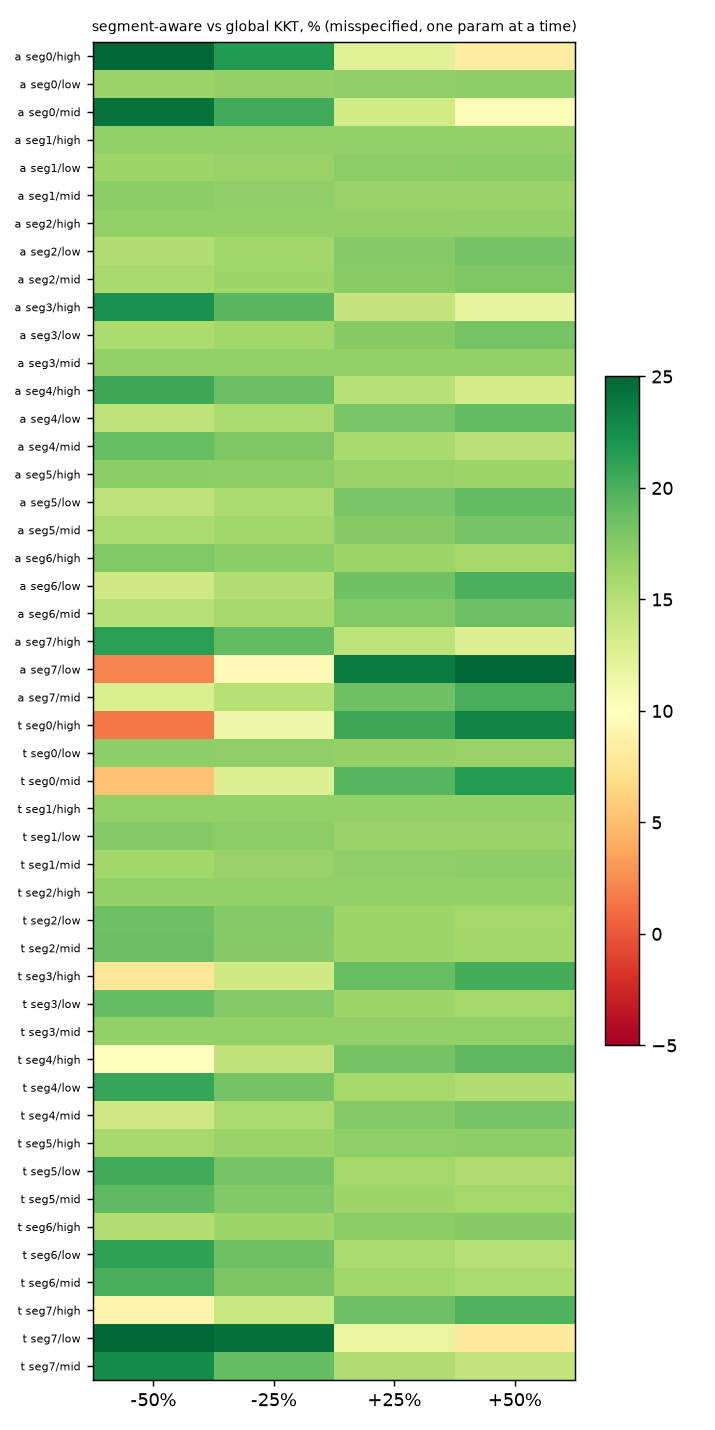
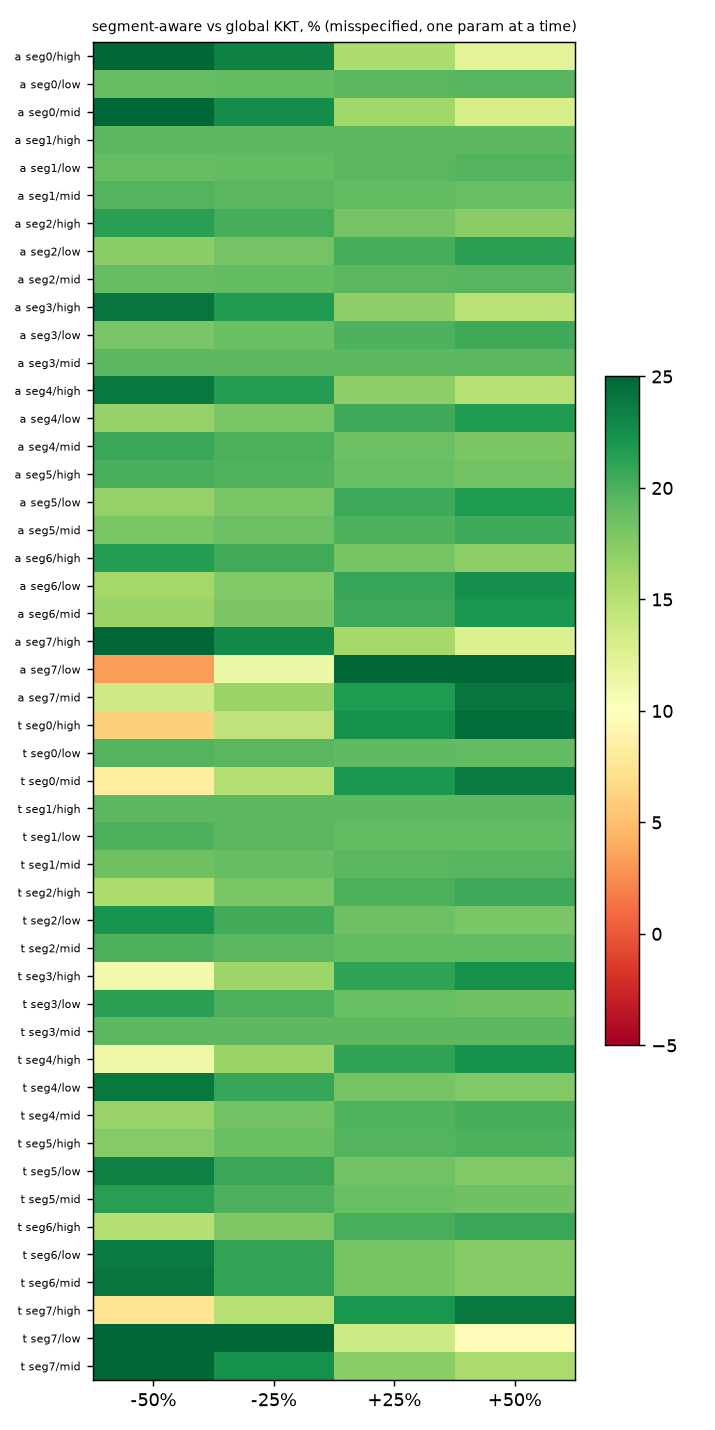
reports: regenerate after out-of-fold scoring (risk, allocation, claims)

diff --git a/reports/allocation.md b/reports/allocation.md
@@ -103,20 +103,20 @@ within 0.5% (`allocation.dual_check_tolerance`).
 
 | strategy              | spend mode   |   spend |   expected saved |   targeted |   saved per spend |   realized saved (labels) |
 |:----------------------|:-------------|--------:|-----------------:|-----------:|------------------:|--------------------------:|
-| segment_aware_kkt     | continuous   | 15000   |         88004.9  |         57 |             5.867 |                  85659    |
-| segment_aware_kkt     | snapped      | 14872.9 |         82422.9  |         83 |             5.542 |                  80962.5  |
-| global_kkt            | continuous   | 15000   |         75330.8  |         49 |             5.022 |                  73606.2  |
-| global_kkt            | snapped      | 14857.9 |         77772.4  |        100 |             5.234 |                  78515    |
-| uniform               | continuous   | 15000   |         17703.6  |       1500 |             1.18  |                  17814.9  |
-| uniform               | snapped      |  7500   |          8874.65 |       1500 |             1.183 |                   8926.38 |
-| top_k_risk            | continuous   | 15000   |         75941.9  |         30 |             5.063 |                  73990    |
-| top_k_risk            | snapped      | 14775.9 |         78113.1  |         83 |             5.287 |                  79282.9  |
-| top_k_revenue_at_risk | continuous   | 15000   |         59801.6  |         30 |             3.987 |                  57840.3  |
-| top_k_revenue_at_risk | snapped      | 14916.7 |         60195.9  |         90 |             4.035 |                  60969.4  |
-| risk_proportional     | continuous   | 15000   |         41647.5  |       1197 |             2.776 |                  40377.3  |
-| risk_proportional     | snapped      | 15000   |         43752.6  |        942 |             2.917 |                  41681.7  |
+| segment_aware_kkt     | continuous   | 15000   |         86158.4  |         61 |             5.744 |                  88159.7  |
+| segment_aware_kkt     | snapped      | 14967.7 |         82201.2  |         79 |             5.492 |                  83946.6  |
+| global_kkt            | continuous   | 15000   |         72239.1  |         66 |             4.816 |                  73489    |
+| global_kkt            | snapped      | 14821.3 |         75837.4  |         89 |             5.117 |                  78524.1  |
+| uniform               | continuous   | 15000   |         17952    |       1500 |             1.197 |                  17814.9  |
+| uniform               | snapped      |  7500   |          8997.53 |       1500 |             1.2   |                   8926.38 |
+| top_k_risk            | continuous   | 15000   |         71986.6  |         30 |             4.799 |                  71924.7  |
+| top_k_risk            | snapped      | 14929.3 |         76561.5  |         84 |             5.128 |                  78571.3  |
+| top_k_revenue_at_risk | continuous   | 15000   |         58514    |         30 |             3.901 |                  61770    |
+| top_k_revenue_at_risk | snapped      | 14816.7 |         60921.6  |         89 |             4.112 |                  65023.6  |
+| risk_proportional     | continuous   | 15000   |         39486.9  |       1332 |             2.632 |                  39779.2  |
+| risk_proportional     | snapped      | 14905   |         39173.4  |       1131 |             2.628 |                  39582.7  |
 
-Segment-aware vs global KKT (continuous): 88,005 vs 75,331 expected saved (+16.82%). Realized difference 12,053, 90% bootstrap CI [-9,739, 34,953] over customers.
+Segment-aware vs global KKT (continuous): 86,158 vs 72,239 expected saved (+19.27%). Realized difference 14,671, 90% bootstrap CI [-8,075, 37,502] over customers.
 
 ![strategy vs budget](figures/strategy_vs_budget.png)
 
@@ -151,37 +151,37 @@ Each of the 24 group parameters of a and of t is varied one at a time (-50, -25,
 - *misspecified*: the world is perturbed but every strategy plans with its nominal assumptions (our current beliefs). This is the informative robustness test.
 - *resolved*: the segment-aware solver is told the perturbed parameters. It is optimal under its own model, so staying first is nearly automatic; only the margin is informative.
 
-Misspecified: segment-aware is first in **204 of 204** scenarios and loses to global KKT in **0**; its margin over global KKT ranges +1.6% to +36.4% (nominal +16.8%). Resolved: first in 204 of 204, margin +10.2% to +45.6%.
+Misspecified: segment-aware is first in **204 of 204** scenarios and loses to global KKT in **0**; its margin over global KKT ranges +3.2% to +41.3% (nominal +19.3%). Resolved: first in 204 of 204, margin +13.0% to +49.1%.
 
 All-together scenarios (segment-aware vs global KKT, relative margin):
 
 | param   |   level |   misspecified_seg_vs_global |   resolved_seg_vs_global | first_misspecified   |
 |:--------|--------:|-----------------------------:|-------------------------:|:---------------------|
-| a       |   -0.5  |                       0.1682 |                   0.1682 | segment_aware_kkt    |
-| t       |   -0.5  |                       0.1173 |                   0.1341 | segment_aware_kkt    |
-| a+t     |   -0.5  |                       0.1173 |                   0.1341 | segment_aware_kkt    |
-| a       |   -0.25 |                       0.1682 |                   0.1682 | segment_aware_kkt    |
-| t       |   -0.25 |                       0.1504 |                   0.1526 | segment_aware_kkt    |
-| a+t     |   -0.25 |                       0.1504 |                   0.1526 | segment_aware_kkt    |
-| a       |    0.25 |                       0.1682 |                   0.1682 | segment_aware_kkt    |
-| t       |    0.25 |                       0.1794 |                   0.1806 | segment_aware_kkt    |
-| a+t     |    0.25 |                       0.1794 |                   0.1806 | segment_aware_kkt    |
-| a       |    0.5  |                       0.1682 |                   0.1682 | segment_aware_kkt    |
-| t       |    0.5  |                       0.1871 |                   0.1906 | segment_aware_kkt    |
-| a+t     |    0.5  |                       0.1871 |                   0.1906 | segment_aware_kkt    |
+| a       |   -0.5  |                       0.1927 |                   0.1927 | segment_aware_kkt    |
+| t       |   -0.5  |                       0.1354 |                   0.1514 | segment_aware_kkt    |
+| a+t     |   -0.5  |                       0.1354 |                   0.1514 | segment_aware_kkt    |
+| a       |   -0.25 |                       0.1927 |                   0.1927 | segment_aware_kkt    |
+| t       |   -0.25 |                       0.1727 |                   0.1751 | segment_aware_kkt    |
+| a+t     |   -0.25 |                       0.1727 |                   0.1751 | segment_aware_kkt    |
+| a       |    0.25 |                       0.1927 |                   0.1927 | segment_aware_kkt    |
+| t       |    0.25 |                       0.2051 |                   0.2065 | segment_aware_kkt    |
+| a+t     |    0.25 |                       0.2051 |                   0.2065 | segment_aware_kkt    |
+| a       |    0.5  |                       0.1927 |                   0.1927 | segment_aware_kkt    |
+| t       |    0.5  |                       0.2136 |                   0.2179 | segment_aware_kkt    |
+| a+t     |    0.5  |                       0.2136 |                   0.2179 | segment_aware_kkt    |
 
 One-at-a-time scenarios aggregated over the 24 groups (misspecified margin, min / mean / max):
 
 | param   |   level |    min |   mean |    max |
 |:--------|--------:|-------:|-------:|-------:|
-| a       |   -0.5  | 0.021  | 0.1686 | 0.2681 |
-| a       |   -0.25 | 0.0964 | 0.1683 | 0.2161 |
-| a       |    0.25 | 0.124  | 0.1683 | 0.2369 |
-| a       |    0.5  | 0.0829 | 0.1685 | 0.3025 |
-| t       |   -0.5  | 0.0159 | 0.1654 | 0.3643 |
-| t       |   -0.25 | 0.1118 | 0.1674 | 0.2434 |
-| t       |    0.25 | 0.1174 | 0.1687 | 0.2055 |
-| t       |    0.5  | 0.0808 | 0.1689 | 0.2319 |
+| a       |   -0.5  | 0.0324 | 0.193  | 0.2752 |
+| a       |   -0.25 | 0.1141 | 0.1927 | 0.2326 |
+| a       |    0.25 | 0.1553 | 0.1927 | 0.2683 |
+| a       |    0.5  | 0.1202 | 0.1929 | 0.3411 |
+| t       |   -0.5  | 0.0611 | 0.1892 | 0.4129 |
+| t       |   -0.25 | 0.1447 | 0.1917 | 0.2762 |
+| t       |    0.25 | 0.1367 | 0.1931 | 0.2238 |
+| t       |    0.5  | 0.0967 | 0.1934 | 0.2457 |
 
 ![sensitivity heatmap](figures/sensitivity_heatmap.png)
 
@@ -189,9 +189,9 @@ One-at-a-time scenarios aggregated over the 24 groups (misspecified margin, min 
 
 | param               |   seg_vs_global | first                 |
 |:--------------------|----------------:|:----------------------|
-| reverse_a           |          0.0059 | segment_aware_kkt     |
-| reverse_t           |         -0.1982 | top_k_revenue_at_risk |
-| reverse_a+reverse_t |         -0.3234 | top_k_revenue_at_risk |
+| reverse_a           |          0.0457 | segment_aware_kkt     |
+| reverse_t           |         -0.2153 | top_k_revenue_at_risk |
+| reverse_a+reverse_t |         -0.3221 | top_k_revenue_at_risk |
 
 Reading: within +-50% perturbations the segment-aware plan keeps its lead because the *direction* of the assumed heterogeneity is unchanged. If the direction itself is wrong (tier effect on t reversed) it falls behind global KKT. The advantage rests on the assumed ordering of segments and tiers, which this data cannot verify.
 
@@ -201,30 +201,30 @@ Simulation on the test split (see `src/churn/allocate/rounds.py` for assumptions
 
 | | mean saved | 90% interval |
 |---|---:|---|
-| rounds | 57,975 | [0, 189,328] |
-| one-shot | 85,872 | [0, 214,839] |
-| paired difference (rounds - one-shot) | -27,896 (SE 6,722) | [-183,282, 99,523] |
+| rounds | 58,030 | [0, 189,333] |
+| one-shot | 87,725 | [0, 238,710] |
+| paired difference (rounds - one-shot) | -29,695 (SE 7,081) | [-198,394, 124,722] |
 
-Rounds beat one-shot in 38% of seeds. Mean spend: rounds 15,000, one-shot 15,000; the largest total over any run was 15,000.00 against a budget of 15,000.
+Rounds beat one-shot in 35% of seeds. Mean spend: rounds 15,000, one-shot 15,000; the largest total over any run was 15,000.00 against a budget of 15,000.
 
 Reading: in this model rounds do **not** beat a single up-front allocation. Only 1/6 of the budget is available in round 1, so customers are protected later, after some have already churned, while the benefit of re-allocating money away from removed customers is small (only a few percent of customers leave per round). Single-seed outcomes are very noisy (each saved customer is worth ~100k), hence the wide per-seed intervals; the mean difference is 4.2 standard errors from zero. Rounds would pay off if the offer effect expired each round or if risk scores were refreshed with new information, neither of which is modelled.
 
 ## Production plan and offer matching (stage 2)
 
-Portfolio budget 100,000 EUR on all customers: 544 targeted, 99,811 spent. Continuous KKT would save 600,757; after snapping to the catalog (re-balanced in 31 rounds, effective stage-1 budget 156,005) it saves 567,354.
+Portfolio budget 100,000 EUR on all customers: 555 targeted, 99,917 spent. Continuous KKT would save 571,057; after snapping to the catalog (re-balanced in 12 rounds, effective stage-1 budget 189,109) it saves 537,606.
 
 |                 |   customers |
 |:----------------|------------:|
-| value_discount  |         238 |
-| service_call    |         175 |
-| retention_bonus |         105 |
-| fee_waiver      |          23 |
-| loyalty_email   |           3 |
+| service_call    |         222 |
+| value_discount  |         197 |
+| retention_bonus |         108 |
+| fee_waiver      |          26 |
+| loyalty_email   |           2 |
 
 ## KKT vs dual ascent
 
-- KKT objective (continuous spend): 600,757
-- Dual-ascent objective: 600,591 (gap 0.028%)
+- KKT objective (continuous spend): 571,057
+- Dual-ascent objective: 570,700 (gap 0.062%)
 
 ## Assumptions
 - Response curves and offer costs/eligibility are assumptions, not measured uplift.

diff --git a/reports/09_timeseries.md b/reports/09_timeseries.md
@@ -88,11 +88,11 @@ Final fit on the full series: ARIMA(1, 0, 0), forecasting 12 weeks with 95% inte
 
 The two series come from different datasets. ARIMA forecasts portfolio revenue; the churn model estimates the share of that revenue at risk:
 
-- L = sum p_i v_i / sum v_i on the churn **test split** with calibrated probabilities = 0.2057 (1500 customers).
+- L = sum p_i v_i / sum v_i on the churn **test split** with calibrated probabilities = 0.2066 (1500 customers).
 - no_intervention = forecast x (1 - L).
-- L' = L - (expected revenue saved by the Step 8 segment-aware, offer-snapped allocation on the same test customers) / sum v_i; with_allocation = forecast x (1 - L'). Here saved = 82,423 of 151,690,446 total customer value, so L' = 0.2052.
+- L' = L - (expected revenue saved by the Step 8 segment-aware, offer-snapped allocation on the same test customers) / sum v_i; with_allocation = forecast x (1 - L'). Here saved = 82,201 of 151,690,446 total customer value, so L' = 0.2060.
 
-Totals over the horizon: no_intervention 2,071,244 GBP, with_allocation 2,072,661 GBP. The allocation lifts the horizon total by 0.07% (the two lines in the figure are almost on top of each other): the Step 8 budget is small next to the revenue at risk, so the mechanism is visible but the effect is small.
+Totals over the horizon: no_intervention 2,068,977 GBP, with_allocation 2,070,390 GBP. The allocation lifts the horizon total by 0.07% (the two lines in the figure are almost on top of each other): the Step 8 budget is small next to the revenue at risk, so the mechanism is visible but the effect is small.
 
 ![Forecast scenarios](figures/forecast_scenarios.png)
 
